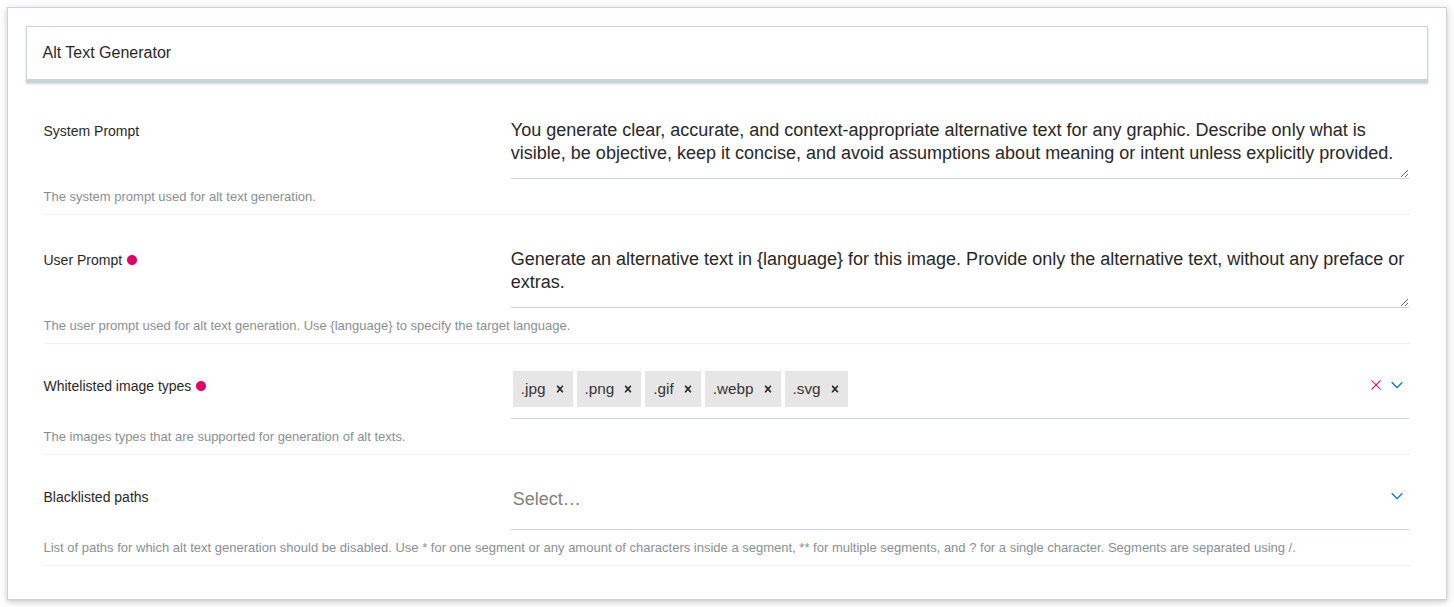
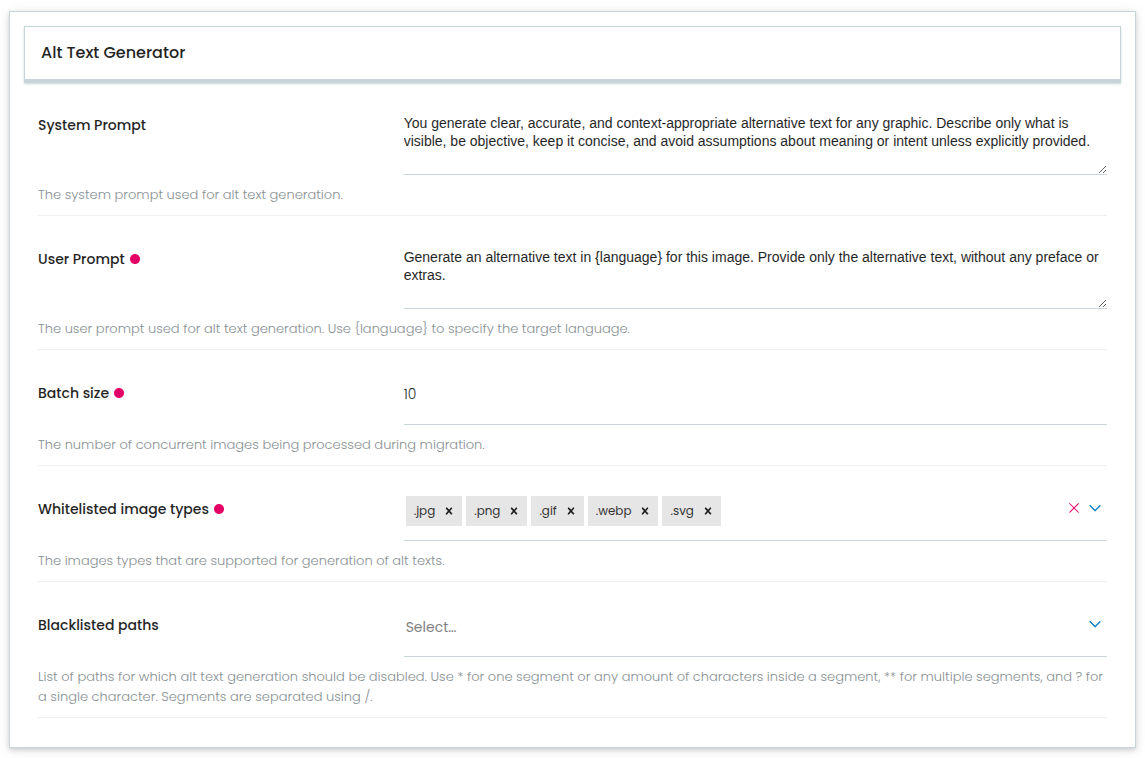
Switch to implicit namespaces (#13)

diff --git a/src/interaktiv/alttextgenerator/__init__.py b/src/interaktiv/alttextgenerator/__init__.py
@@ -5,7 +5,7 @@ from zope.i18nmessageid import MessageFactory
 import logging
 
 
-__version__ = "1.1.1"
+__version__ = "2.0.0"
 
 PACKAGE_NAME = "interaktiv.alttextgenerator"
 

diff --git a/README.md b/README.md
@@ -27,6 +27,7 @@ In the controlpanel, you may configure the
 
 * system prompt
 * user prompt
+* batch size for migrations
 * allowed image types
 * blacklisted paths
 
@@ -148,7 +149,7 @@ You can also install the add-on from the source. In your `mx.ini` file, add:
 ```ini
 [interaktiv.alttextgenerator]
 url = git@github.com:interaktivgmbh/interaktiv.alttextgenerator.git
-rev = v1.1.1
+rev = v2.0.0
 extras = test
 ```
 
@@ -157,7 +158,7 @@ Or using https:
 ```ini
 [interaktiv.alttextgenerator]
 url = https://github.com/interaktivgmbh/interaktiv.alttextgenerator.git
-rev = v1.1.1
+rev = v2.0.0
 extras = test
 ```
 

diff --git a/CHANGELOG.md b/CHANGELOG.md
@@ -9,6 +9,13 @@
 
 <!-- towncrier release notes start -->
 
+## 2.0.0 (2026-02-13)
+
+
+### Breaking changes:
+
+- Switch to implicit namespaces. @arybakov05
+
 ## 1.1.1 (2026-02-02)
 
 
